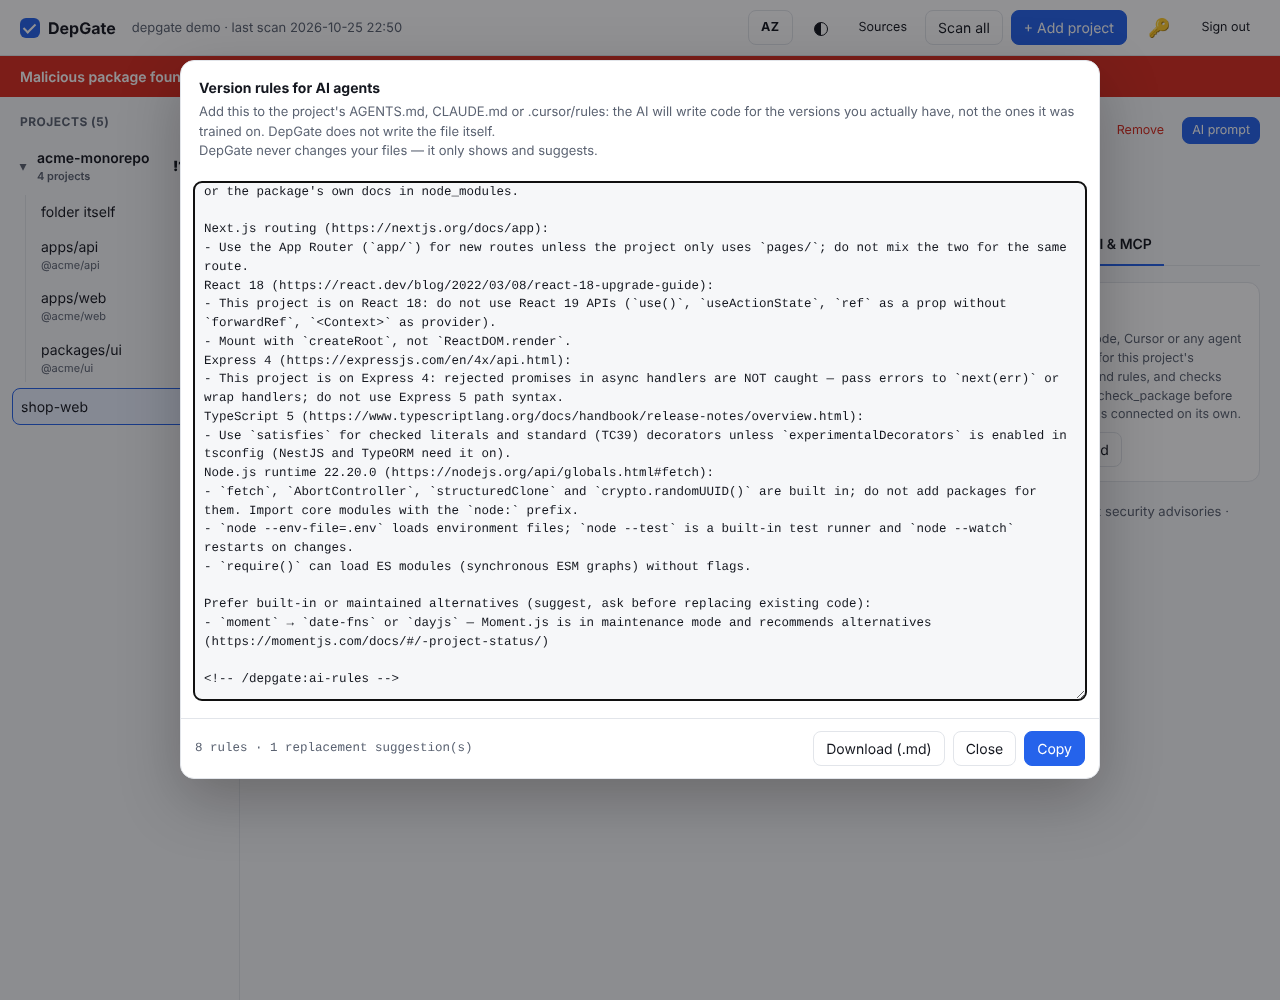
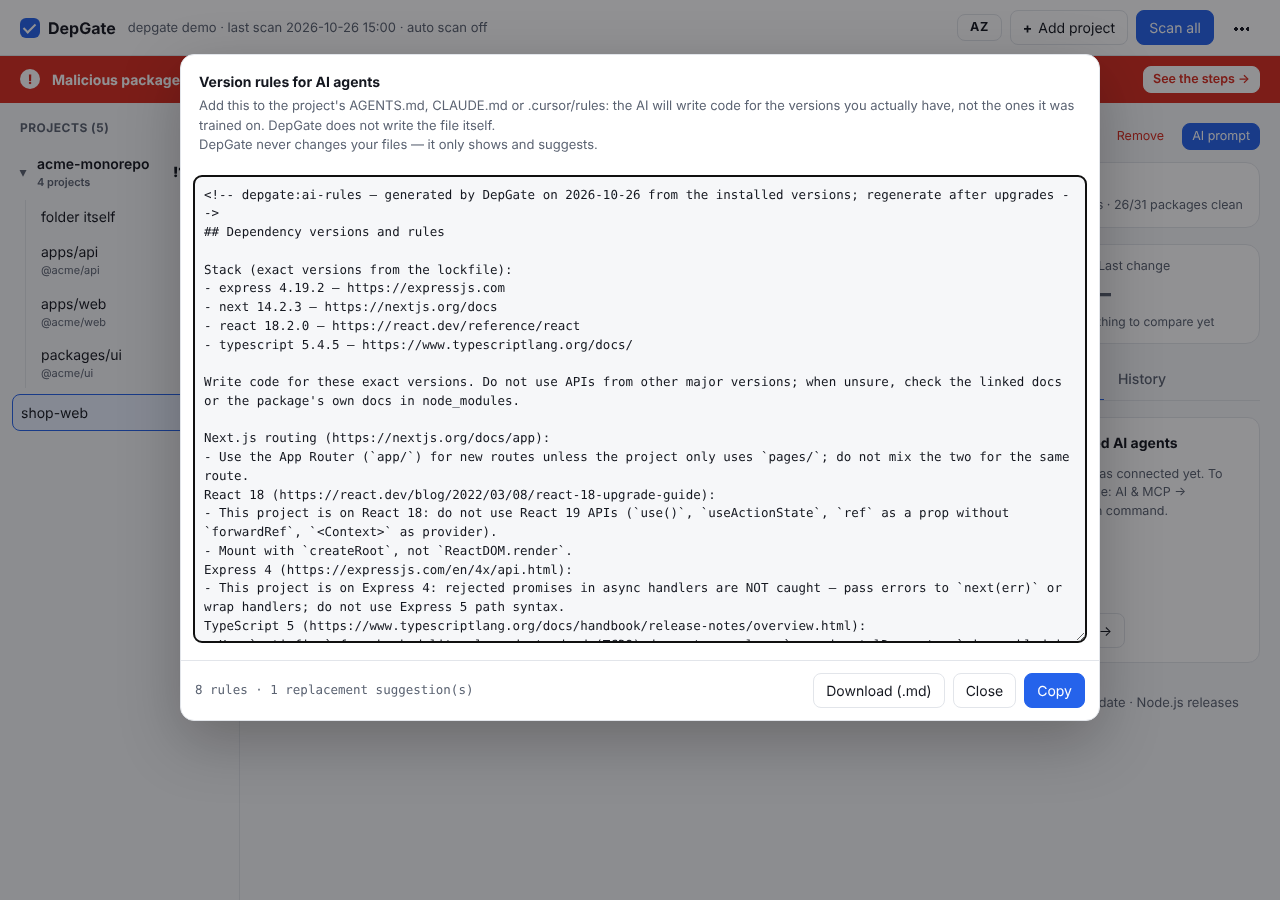
README: new screenshots and what is new
- Every screenshot in docs/ retaken with the new interface from the neutral
  demo (overview, packages, code changes, Docker, web server, folder page,
  AI prompt, AI rules, MCP setup, sources, add project) plus new ones:
  packages with an opened row, history with an AI agent's activity; the
  Azerbaijani README gets Azerbaijani pictures.
- README (EN/AZ): auto rescans and comparison in the intro, the overview
  and package rows as they are now, per-agent MCP setup, the update
  notice, a 2×2 picture gallery.
- UI: when only a later major changes code, the button says so instead of
  "N places in your code change".

Claude-Session: https://claude.ai/code/session_01RC5sxXsnmjCqEpypdegVQc

diff --git a/internal/web/ui/app.js b/internal/web/ui/app.js
@@ -416,6 +416,7 @@
     codeHelp: ["Yeniləmədən sonra kodunda dəyişməli olan yerlər.", "The places in your code that change with these updates."],
     codeNone: ["Kod dəyişikliyi tələb edən yeniləmə yoxdur.", "No update needs code changes."],
     toPackage: ["Paketə bax", "View package"],
+    seeCodePlan: ["Növbəti major-a keçəndə kodda {0} yer dəyişəcək → Kod dəyişiklikləri", "Moving to the next major later changes {0} places → Code changes"],
     seeCode: ["Kodda {0} yer dəyişməlidir → Kod dəyişiklikləri", "{0} places in your code change → Code changes"],
     seeCode0: ["Yeniləmə qeydləri → Kod dəyişiklikləri", "Upgrade notes → Code changes"],
     dockerHelp: ["Dockerfile və compose faylları: təhlükəsizlik, Compose standartı və image-lərin köhnəlməsi.", "Dockerfiles and compose files: security, the Compose Specification and outdated images."],
@@ -1841,8 +1842,10 @@
     if (f.impactWhy && f.impactWhy.length) R.push(el("ul", { class: "why" }, list(f.impactWhy)));
     const migs = where ? where.flatMap((w) => (w.f.migrate || []).map((m) => [m, where.length > 1 ? relName(w.p, g) : ""])) : (f.migrate || []).map((m) => [m, ""]);
     if (bare && migs.length) {
-      const hits = migs.reduce((a, [m]) => a + (m.hits || 0), 0);
-      R.push(el("button", { class: "tocode" + (migs.some(([m]) => !m.plan) ? " now" : ""), onclick: () => goTab("code") }, hits ? t("seeCode", hits) : t("seeCode0")));
+      const now = migs.filter(([m]) => !m.plan), hits = now.reduce((a, [m]) => a + (m.hits || 0), 0);
+      const later = migs.filter(([m]) => m.plan).reduce((a, [m]) => a + (m.hits || 0), 0);
+      R.push(el("button", { class: "tocode" + (now.length ? " now" : ""), onclick: () => goTab("code") },
+        hits ? t("seeCode", hits) : !now.length && later ? t("seeCodePlan", later) : t("seeCode0")));
     } else for (const [m, l] of migs) R.push(migBlock(m, l));
     if (f.warnings && f.warnings.length) R.push(el("div", { class: "warnbox" }, f.warnings.map((w) => el("div", null, "⚠ " + tr(w)))));
     if (where) {

diff --git a/README.az.md b/README.az.md
@@ -24,9 +24,10 @@
 - ① **Yeniləmək lazımdır?** indi · tezliklə · planla · istəyə görə · lazım deyil — zərərli paketlər və istismar olunan CVE-lər birinci
 - ② **Koduma təsir edir?** xeyr · ola bilər · bəli — bəlidirsə, **dəyişməli hər yer** (`fayl:sətir`) və codemod
 - 🎯 **Hansı versiyaya?** «latest» yox, *ən təhlükəsiz minimum*
-- 🤖 **AI agentim edə bilər?** hazır prompt, versiya qaydaları və MCP server
+- 🤖 **AI agentim edə bilər?** hazır prompt, versiya qaydaları və MCP server — Claude Code, Cursor, VS Code, Windsurf, Codex, Gemini
+- 📈 **Nə dəyişib?** layihələr özü yenidən skan olunur, hər skan əvvəlki ilə müqayisə edilir
 
-Dockerfile, docker-compose, nginx, Caddy və Node.js runtime-ı da yoxlayır. Sənin kompüterində işləyir və **heç bir faylı dəyişmir**.
+Dockerfile, docker-compose, nginx, Caddy və Node.js runtime-ı da yoxlayır. Sənin kompüterində işləyir və **heç bir faylı dəyişmir** — yalnız göstərir və təklif edir.
 
 ![DepGate](docs/screenshot-az.png)
 
@@ -54,7 +55,7 @@ Sonra `http://127.0.0.1:7777` aç, parol seç və **+ Layihə əlavə et** (layi
 | Windows WSL | WSL ev qovluğunu — layihələr Windows tərəfindədirsə, PowerShell-dən işə sal |
 
 - Ev qovluğun yalnız oxuma rejimində bağlanır; konteyner onun sahibi kimi işləyir və root hüquqlarını buraxır. Data `depgate-data` volume-unda saxlanır.
-- Yeniləmə: `git pull && docker compose up -d` (həmişə ən yeni image-i çəkir; versiya səhifənin yuxarısında görünür).
+- Yeniləmə: `git pull && docker compose up -d` (həmişə ən yeni image-i çəkir). Yeni versiya çıxanda DepGate yuxarıda bildiriş və əmri göstərir.
 - macOS, ilk dəfə: `xattr -d com.apple.quarantine ./depgate`. Windows SmartScreen: *More info → Run anyway*.
 - Yükləməni yoxla: `checksums.txt` və `gh attestation verify <fayl> -R Ali7Zeynalli/depgate`.
 </details>
@@ -63,18 +64,22 @@ Sonra `http://127.0.0.1:7777` aç, parol seç və **+ Layihə əlavə et** (layi
 
 | Bölmə | Nə göstərir |
 |---|---|
-| **Ümumi** | əvvəlcə görüləcək bir neçə iş, sıra ilə |
-| **Paketlər** | hər paket bir sətir: nədir, nə tapılıb, zəiflik sadə dildə (CWE), ən təhlükəsiz versiya və əmr; zərərli paketlər, silinmiş versiyalar, birlikdə yenilənməli paketlər; səbəb və tarixlə **riski qəbul et** (müddət bitəndə özü qayıdır) |
+| **Ümumi** | vəziyyət bir baxışda (zərərli, indi et, kod dəyişikliyi, Docker və server, son dəyişiklik) və ilk addımlar sıra ilə, hər biri öz əmri ilə |
+| **Paketlər** | hər paket bir sətir, əvvəl risk: nədir, nə tapılıb, zəiflik sadə dildə (CWE), ən təhlükəsiz versiya, əmr və nömrəli addımlar; zərərli paketlər, silinmiş versiyalar, birlikdə yenilənməli paketlər; səbəb və tarixlə **riski qəbul et** (müddət bitəndə özü qayıdır) |
 | **Kod dəyişiklikləri** | Next.js, React, Express, NestJS, Prisma, Zod, Tailwind, ESLint, TanStack Query, React Router üçün `fayl:sətir` yerləri; codemod-lar; reliz qeydlərindən breaking changes |
 | **Docker** | 25 təhlükəsizlik qaydası, Compose Specification xətaları, dəstəyi bitmiş və köhnə image-lər |
 | **Veb server** | nginx / Caddy: versiyanın məlum zəiflikləri, TLS, başlıqlar, yol keçidi, açıq admin API |
 | **Node.js və mühit** | runtime təhlükəsizlik relizləri və dəstəyin bitməsi; lockfile, install skriptləri, gözləmə müddəti |
-| **AI və MCP** | hazır prompt, `AGENTS.md` versiya qaydaları, MCP qoşulma əmri, hansı agentlərin qoşulduğu |
-| **Tarixçə** | layihələr avtomatik yenidən skan olunur (standart hər 12 saat, yuxarıda dəyişmək olur); hər skan əvvəlki ilə müqayisə olunur: nə yenidir, nə aradan qalxıb, lockfile dəyişib, yoxsa yeni advisory çıxıb; skanı kim edib (interfeys, əmr sətri və ya AI agent) və hər agent MCP ilə nəyi yoxlayıb |
+| **AI və MCP** | hazır prompt, `AGENTS.md` versiya qaydaları, agentinə görə qoşulma, hansı agentlərin qoşulduğu |
+| **Tarixçə** | layihələr avtomatik yenidən skan olunur (standart hər 12 saat, «⋯» menyusunda dəyişmək olur); hər skan əvvəlki ilə müqayisə olunur: nə yenidir, nə aradan qalxıb, lockfile dəyişib, yoxsa yeni advisory çıxıb; skanı kim edib (interfeys, əmr sətri və ya AI agent) və hər agent MCP ilə nəyi yoxlayıb |
 
-Qovluqlar və monorepo-lar üçün birləşmiş səhifə var; bir neçə layihədə olan tapıntı bir dəfə göstərilir.
+Qovluqlar və monorepo-lar üçün birləşmiş səhifə var; bir neçə layihədə olan tapıntı bir dəfə göstərilir. Telefonda səhifə bir sütuna düzülür.
 
-![Kod dəyişiklikləri](docs/code-changes.png)
+| Paketlər | Kod dəyişiklikləri |
+|---|---|
+| <img src="docs/packages-az.png" alt="Açılmış paket sətri: nə tapılıb və nə etməli" width="420"> | <img src="docs/code-changes-az.png" alt="Yeniləmə üçün kodda dəyişməli yerlər" width="420"> |
+| **Tarixçə** | **AI agent qoşulması** |
+| <img src="docs/history-az.png" alt="Skanların müqayisəsi və AI agentlərin etdikləri" width="420"> | <img src="docs/mcp-az.png" alt="Agentə görə MCP qoşulması" width="420"> |
 
 ## AI agentlər (MCP)
 

diff --git a/README.md b/README.md
@@ -24,9 +24,10 @@
 - ① **Do I need to update?** now · soon · plan · optional · not needed — malware and exploited CVEs first
 - ② **Will it affect my code?** no · maybe · yes — and if yes, **every place to change** (`file:line`) plus the codemod
 - 🎯 **To which version?** the *safest minimum*, not "latest"
-- 🤖 **Can my AI agent do it?** a ready prompt, version rules and an MCP server
+- 🤖 **Can my AI agent do it?** a ready prompt, version rules and an MCP server — Claude Code, Cursor, VS Code, Windsurf, Codex, Gemini
+- 📈 **What changed?** projects are rescanned on their own and every scan is compared with the one before
 
-It also checks Dockerfiles, docker-compose, nginx, Caddy and your Node.js runtime. It runs on your computer and **never changes your files**.
+It also checks Dockerfiles, docker-compose, nginx, Caddy and your Node.js runtime. It runs on your computer and **never changes your files** — it only shows and suggests.
 
 ![DepGate](docs/screenshot.png)
 
@@ -54,7 +55,7 @@ Then open `http://127.0.0.1:7777`, choose a password and **+ Add project** (a pr
 | Windows WSL | your WSL home — projects on the Windows side? start it from PowerShell |
 
 - Your home is mounted read-only; the container runs as its owner and drops root. Data lives in the `depgate-data` volume.
-- Update: `git pull && docker compose up -d` (it always fetches the newest image; the version is shown at the top of the page).
+- Update: `git pull && docker compose up -d` (it always fetches the newest image). DepGate shows a notice at the top when a new version is out, with the command.
 - macOS binary, first run: `xattr -d com.apple.quarantine ./depgate`. Windows SmartScreen: *More info → Run anyway*.
 - Verify downloads: `checksums.txt` and `gh attestation verify <file> -R Ali7Zeynalli/depgate`.
 </details>
@@ -63,18 +64,22 @@ Then open `http://127.0.0.1:7777`, choose a password and **+ Add project** (a pr
 
 | Section | What it shows |
 |---|---|
-| **Overview** | the few things to do first, in order |
-| **Packages** | one row per package: what it is, what was found, the weakness explained in plain words (CWE), the safest version and the command; malware, removed versions, packages that must update together; **accept a risk** with a reason until a date (it comes back by itself) |
+| **Overview** | the state at a glance (malware, do now, code changes, Docker & server, last change) and the first steps in order, each with its command |
+| **Packages** | one row per package, risk first: what it is, what was found, the weakness in plain words (CWE), the safest version, the command and numbered steps; malware, removed versions, packages that must update together; **accept a risk** with a reason until a date (it comes back by itself) |
 | **Code changes** | `file:line` places for Next.js, React, Express, NestJS, Prisma, Zod, Tailwind, ESLint, TanStack Query, React Router; codemods; breaking changes from release notes |
 | **Docker** | 25 security rules, Compose Specification errors, end-of-life and outdated images |
 | **Web server** | nginx / Caddy: known vulnerabilities of your version, TLS, headers, path traversal, exposed admin API |
 | **Node.js & setup** | runtime security releases and end of life; lockfile, install scripts, release cooldown |
-| **AI & MCP** | a ready prompt, `AGENTS.md` version rules, the MCP connection command, which agents are connected |
-| **History** | projects are scanned again automatically (every 12 h by default, changeable at the top); every scan compared with the one before: what is new, what is gone, whether the lockfile changed or a new advisory appeared; who ran it (UI, CLI or an AI agent) and what each agent checked over MCP |
+| **AI & MCP** | a ready prompt, `AGENTS.md` version rules, the setup for your agent, which agents are connected |
+| **History** | projects are scanned again automatically (every 12 h by default, changeable in the ⋯ menu); every scan compared with the one before: what is new, what is gone, whether the lockfile changed or a new advisory appeared; who ran it (UI, CLI or an AI agent) and what each agent checked over MCP |
 
-Folders and monorepos get one merged page; a finding in several projects is shown once.
+Folders and monorepos get one merged page; a finding in several projects is shown once. On a phone the page stacks into one column.
 
-![Code changes](docs/code-changes.png)
+| Packages | Code changes |
+|---|---|
+| <img src="docs/packages.png" alt="A package row opened: what was found and what to do" width="420"> | <img src="docs/code-changes.png" alt="Places in the code to change for an upgrade" width="420"> |
+| **History** | **AI agent setup** |
+| <img src="docs/history.png" alt="Scans compared and what AI agents did" width="420"> | <img src="docs/mcp.png" alt="MCP setup per agent" width="420"> |
 
 ## AI agents (MCP)
 
